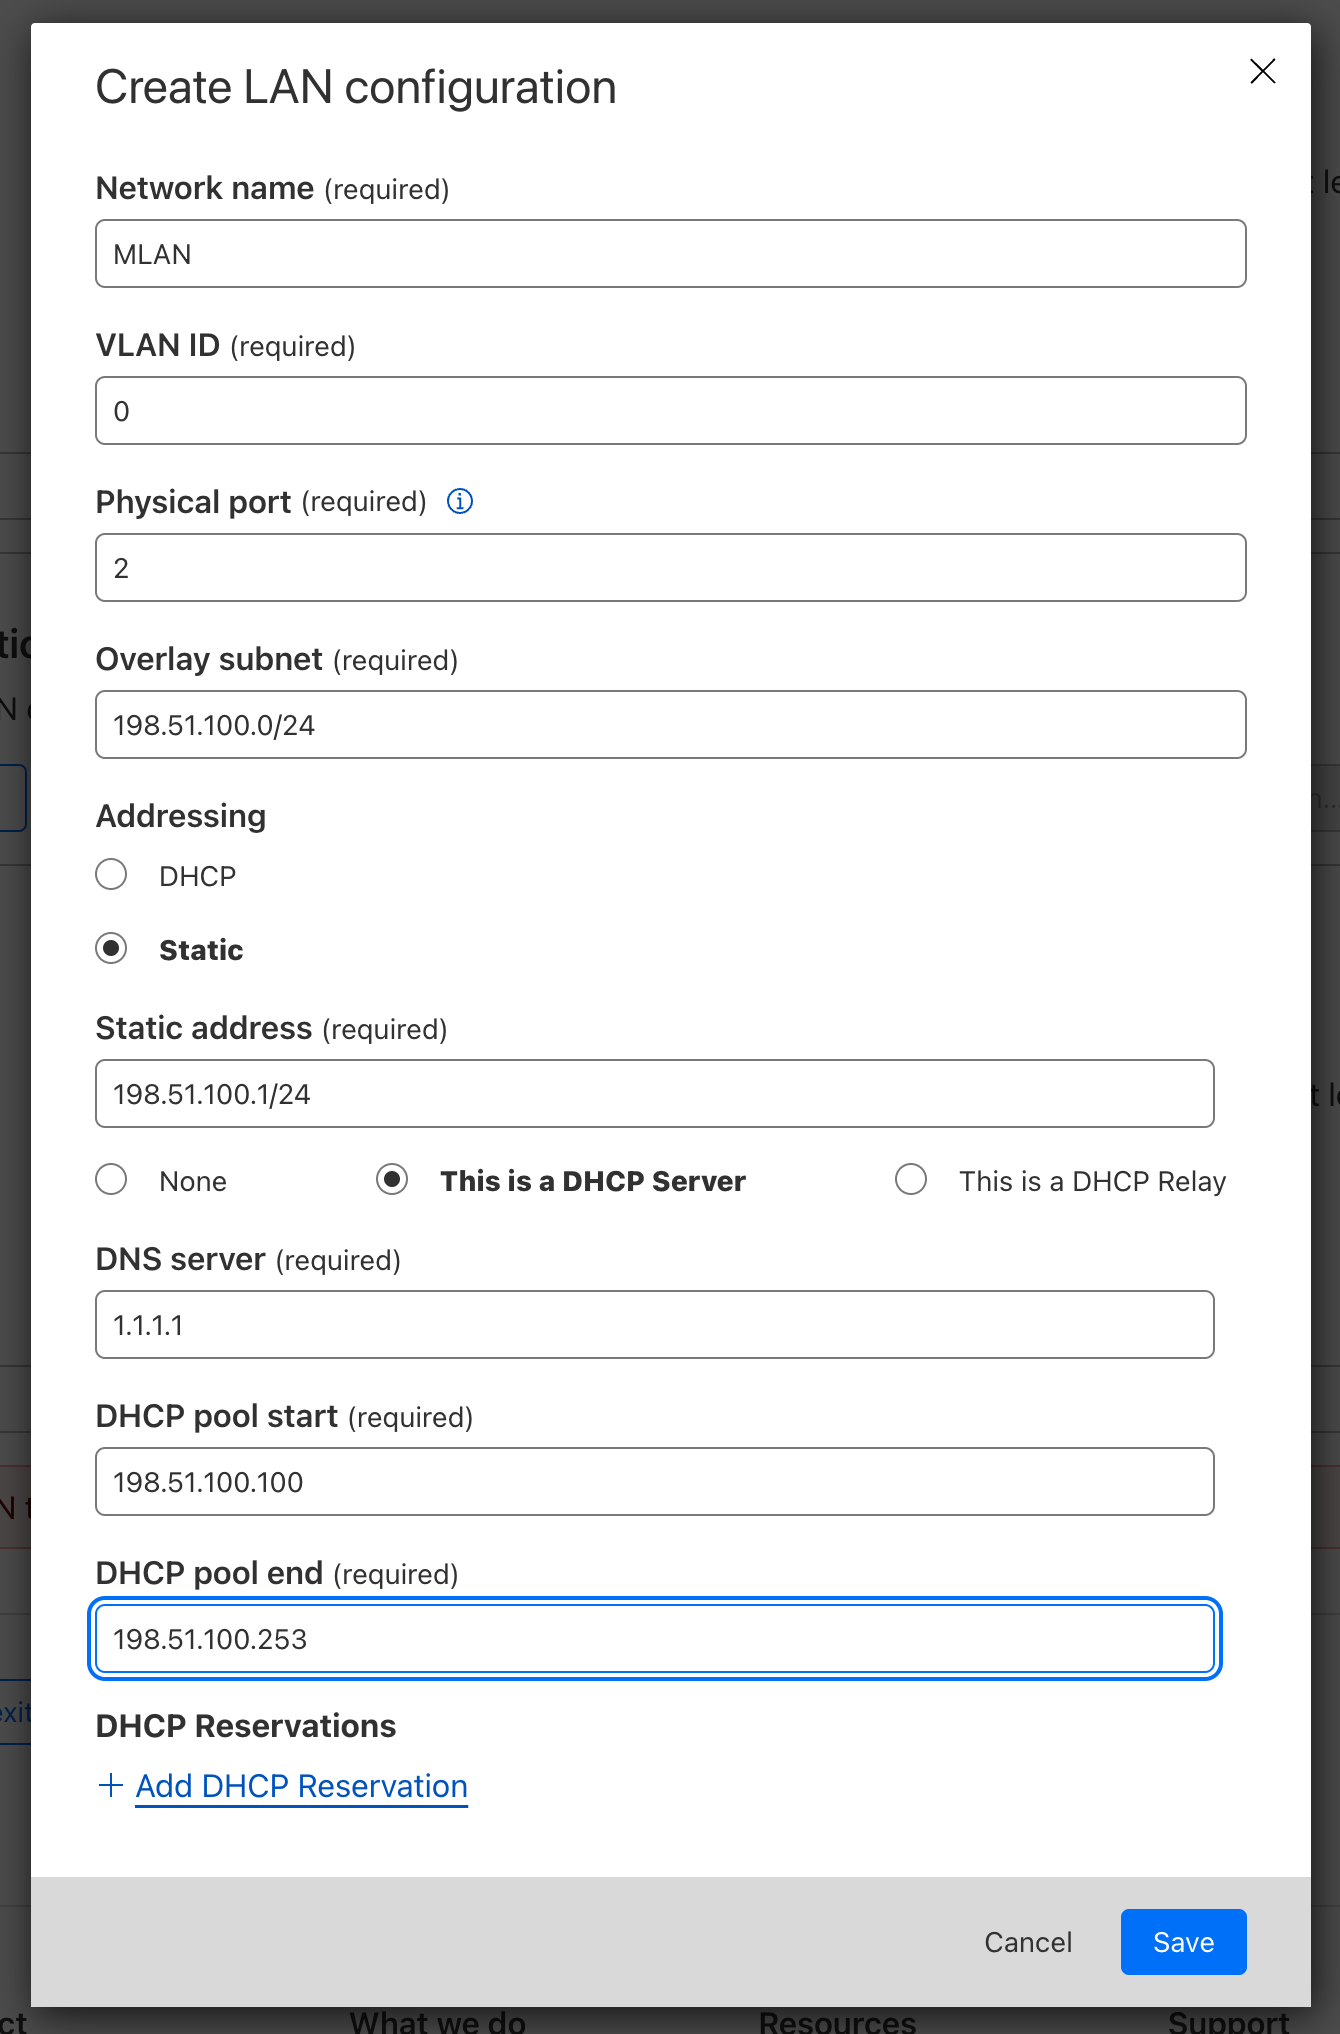
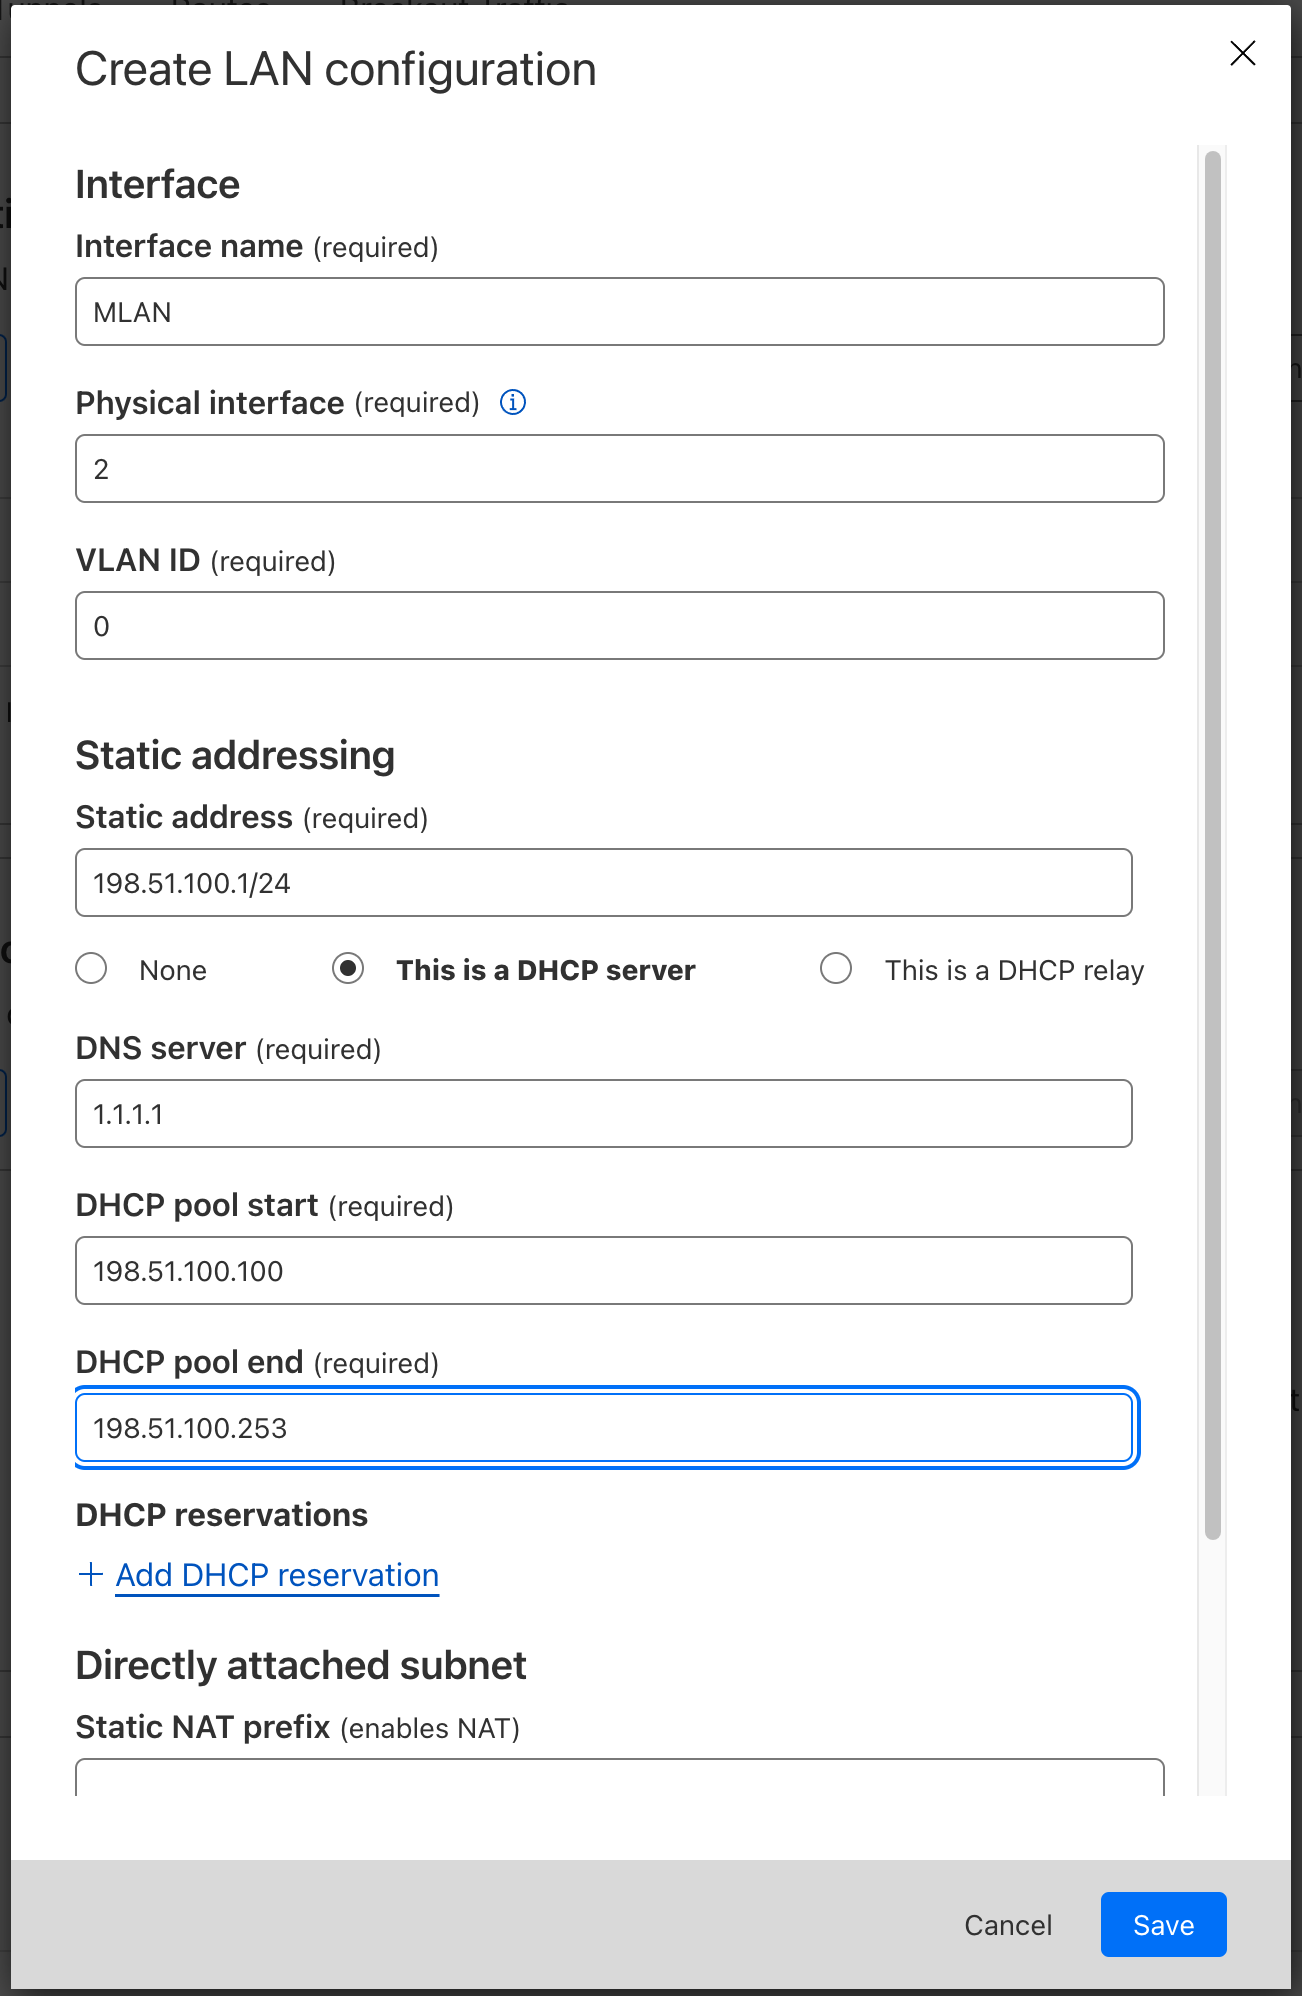
[MWAN] Routed networks / NAT (#13293)
* added routed subnets with mermaid graph

* corrected graph

* added text

* removed extra line

* removed text color

* refined graphic

* refined text

* refined how-to LANs

* refined text

* refined text and added links to crete lan

* refined text

* updated img lan static

* refined indentation

* refined graph color

* refined text

* corrected img

* Apply suggestions from code review

* Apply suggestions from code review

* Apply suggestions from code review

* Apply suggestions from code review

* Apply suggestions from code review

* added suggestions

* arrows to links

* routed subnets folder

* refined text

* corrected dhcp server

---------

diff --git a/content/magic-wan/_partials/connector/_create-site.md b/content/magic-wan/_partials/connector/_create-site.md
@@ -44,14 +44,21 @@ To add a site:
 
 1. In **LAN configuration**, select **Create**.
 2. Enter a descriptive name for your LAN in **Network name**.
-3. In **VLAN ID**, specify a [VLAN ID](/magic-wan/configuration/connector/reference/#vlan-id) to create virtual LANs.
-4. **Physical port** $2
-5. **Overlay subnet** is the subnet behind Magic WAN Connector. This should match the static address if you choose to set up your Connector with a static address.
-6. In **Addressing** define if the IP address for the Connector is fetched from a DHCP server, or if it is a static address:
-    - **DHCP**: Choose this option if the IP address for your Connector is fetched from a DHCP server.
-    - **Static**: Choose this option if your Connector needs a static address. Enter the IP address in **Static address**. When you use a static address, you can also set up the Connector to be a [DHCP server](/magic-wan/configuration/connector/network-options/dhcp/dhcp-server/).
-7. Select **Save**.
-8. Select **Save and exit** to finish your configuration. Tunnels and {{<glossary-tooltip term_id="static route">}}static routes{{</glossary-tooltip>}} will be automatically created and associated with your site once the Magic WAN Connector boots up (refer to the next step).
+3. **Physical interface** $2
+4. In **VLAN ID**, specify a [VLAN ID](/magic-wan/configuration/connector/reference/#vlan-id) to create virtual LANs.
+5. In **Static addressing** > **Static address** give your Connector's LAN interface its IP address. You can also enable the following options if they suit your use case:
+    - **This is a DHCP server**: If your Connector is a [DHCP server](/magic-wan/configuration/connector/network-options/dhcp/dhcp-server/).
+    - **This is a DHCP relay**: If your Connector is a [DHCP relay](/magic-wan/configuration/connector/network-options/dhcp/dhcp-relay/).
+6. (Optional) In **Directly attached subnet** > **Static NAT prefix**, enter a CIDR prefix to enable NAT (network address translation). The prefix you enter here should be the same size as the prefix entered in **Static addressing**. For example, both networks have a subnet mask of `/24`: `192.168.100.0/24` and `10.10.100.0/24`.
+7. (Optional) If your LAN contains additional subnets behind a layer 3 router, select **Add routed subnet** under **Routed subnets** to add them:
+    - **Prefix**: The CIDR prefix for the subnet behind the L3 router.
+    - **Next hop**:  The address of the L3 router to which the Connector should forward packets for this subnet.
+    - **Static NAT prefix**: Optional setting. If you want to enable NAT for a routed subnet, supply an "external" prefix for the overlay-facing side of the NAT to use. It must be the same size as **Prefix**.
+
+        Refer to [Routed subnets](/magic-wan/configuration/connector/network-options/routed-subnets/) for more information.
+
+8. Select **Save**.
+9. Select **Save and exit** to finish your configuration. Tunnels and {{<glossary-tooltip term_id="static route">}}static routes{{</glossary-tooltip>}} will be automatically created and associated with your site once the Magic WAN Connector boots up (refer to the next step).
 
 #### Network segmentation
 

diff --git a/content/magic-wan/configuration/connector/network-options/routed-subnets/_index.md b/content/magic-wan/configuration/connector/network-options/routed-subnets/_index.md
@@ -1,0 +1,53 @@
+---
+pcx_content_type: concept
+title: Routed subnets
+---
+
+# Routed Subnets
+
+Each LAN interface (physical port + VLAN tag) on a Magic WAN Connector is part of a *directly-attached subnet*. When you specify a static address for the LAN interface, you indicate both the interface's address as well as the subnet it attaches to. For example, `192.168.100.13/24` means the LAN interface has the IP address `192.168.100.13`, and is part of the subnet `192.168.100.0/24`.
+
+Some LANs are more complex. In addition to the directly-attached subnet, they might have additional subnets sitting behind L3 routers south of the Magic WAN Connector. We call these *routed subnets*.
+
+Refer to the diagram below for an example of how this might work:
+
+{{<Aside type="note">}}Blue represents directly-attached subnets, and red represents routed subnets.{{</Aside>}}
+
+```mermaid
+flowchart TB
+accTitle: Routed subnets
+accDescr: Some LANs are complex, and might have additional subnets behind L3 routers.
+
+a((WAN)) --> b
+
+subgraph b [Connector]
+direction TB
+c(LAN 1)
+d(LAN n)
+end
+
+c --- e(subnet x):::blue
+d --- f(subnet 192.168.100.0/24):::blue
+
+f---|192.168.100.10|g(Layer 3 router)
+
+g --- h(routed subnet y):::red
+g --- i(192.168.200.0/24):::red
+g --- j(layer 3 router)
+j --- k(routed subnet z):::red
+
+classDef blue fill:#add8e6,color: black
+classDef red fill:#ff6900,color: black
+```
+<br>
+
+To add a routed subnet to your LAN, you need:
+
+- **A prefix**: The subnet's CIDR prefix; Cloudflare will automatically install static routes to this prefix in our global network (to forward packets for this subnet to the right Connector), and in your Connector (to forward packets for this subnet to the right LAN interface). In the figure above, the routed subnet in the center has the prefix `192.168.200.0/24`.
+- **A next-hop address**: The address of the L3 router to which the Connector should forward packets for this subnet. In the figure, the routed subnet in the center has the next-hop address `192.168.100.10`.
+
+Optionally, you can also enable NAT for a subnet by providing a static overlay prefix.
+
+## Create routed subnets
+
+For more information on how to create routed subnets, refer to **Create a LAN**, either in [Configure hardware Connector](/magic-wan/configuration/connector/configure-hardware-connector/#3-create-a-lan) or [Configure virtual Connector](/magic-wan/configuration/connector/configure-virtual-connector/#3-create-a-lan).

diff --git a/content/magic-wan/configuration/connector/network-options/routed-subnets/enable-nat-subnet.md b/content/magic-wan/configuration/connector/network-options/routed-subnets/enable-nat-subnet.md
@@ -1,0 +1,22 @@
+---
+pcx_content_type: concept
+title: Enable NAT for a subnet
+---
+
+# Enable NAT for a subnet
+
+Each subnet (directly-attached or routed) must have a unique address space within your Magic WAN. You can re-use address spaces locally by enabling static network address translation (NAT) for a subnet. Subnet NAT is 1:1. To enable it, supply an address prefix the same size as the subnet's prefix, and the Magic WAN Connector will translate between the two.
+
+For example:
+- **Prefix**: `192.168.100.0/24`
+- **Static NAT prefix**: `10.10.100.0/24`
+
+With the example above, outbound traffic from host `192.168.100.13` in the subnet is translated to `10.10.100.13` in the Connector (and vice versa for incoming traffic).
+
+{{<Aside type="note">}}
+Even if NAT is enabled, the local prefix for a subnet must be unique within its LAN. It can, however, be reused on other LANs or other sites. Overlay-facing prefixes — that is, a subnet's NAT prefix if NAT is enabled, and its local prefix otherwise — must always be unique across your whole Magic WAN.
+{{</Aside>}}
+
+## Create NATs for subnets
+
+For more information on how to a create a NAT for a subnets, refer to **Create a LAN**, either in [Configure hardware Connector](/magic-wan/configuration/connector/configure-hardware-connector/#3-create-a-lan) or [Configure virtual Connector](/magic-wan/configuration/connector/configure-virtual-connector/#3-create-a-lan).

diff --git a/content/magic-wan/configuration/connector/network-options/dhcp/dhcp-server.md b/content/magic-wan/configuration/connector/network-options/dhcp/dhcp-server.md
@@ -13,8 +13,7 @@ When you use a static IP address, Magic WAN Connector can also act as a DHCP ser
 4. Select **Network**.
 5. In **LAN configuration**, select the LAN where you want to enable DHCP server.
 6. Select **Edit**.
-7. Under **Addressing**, select **Static**, and enter the static IP address for your Connector.
-8. Select **This is a DHCP Server**. You also have to specify:
+7. Under **Static addressing**, select **This is a DHCP Server**. You also have to specify:
     - The DNS server address
     - The DHCP pool start
     - The DHCP pool end
